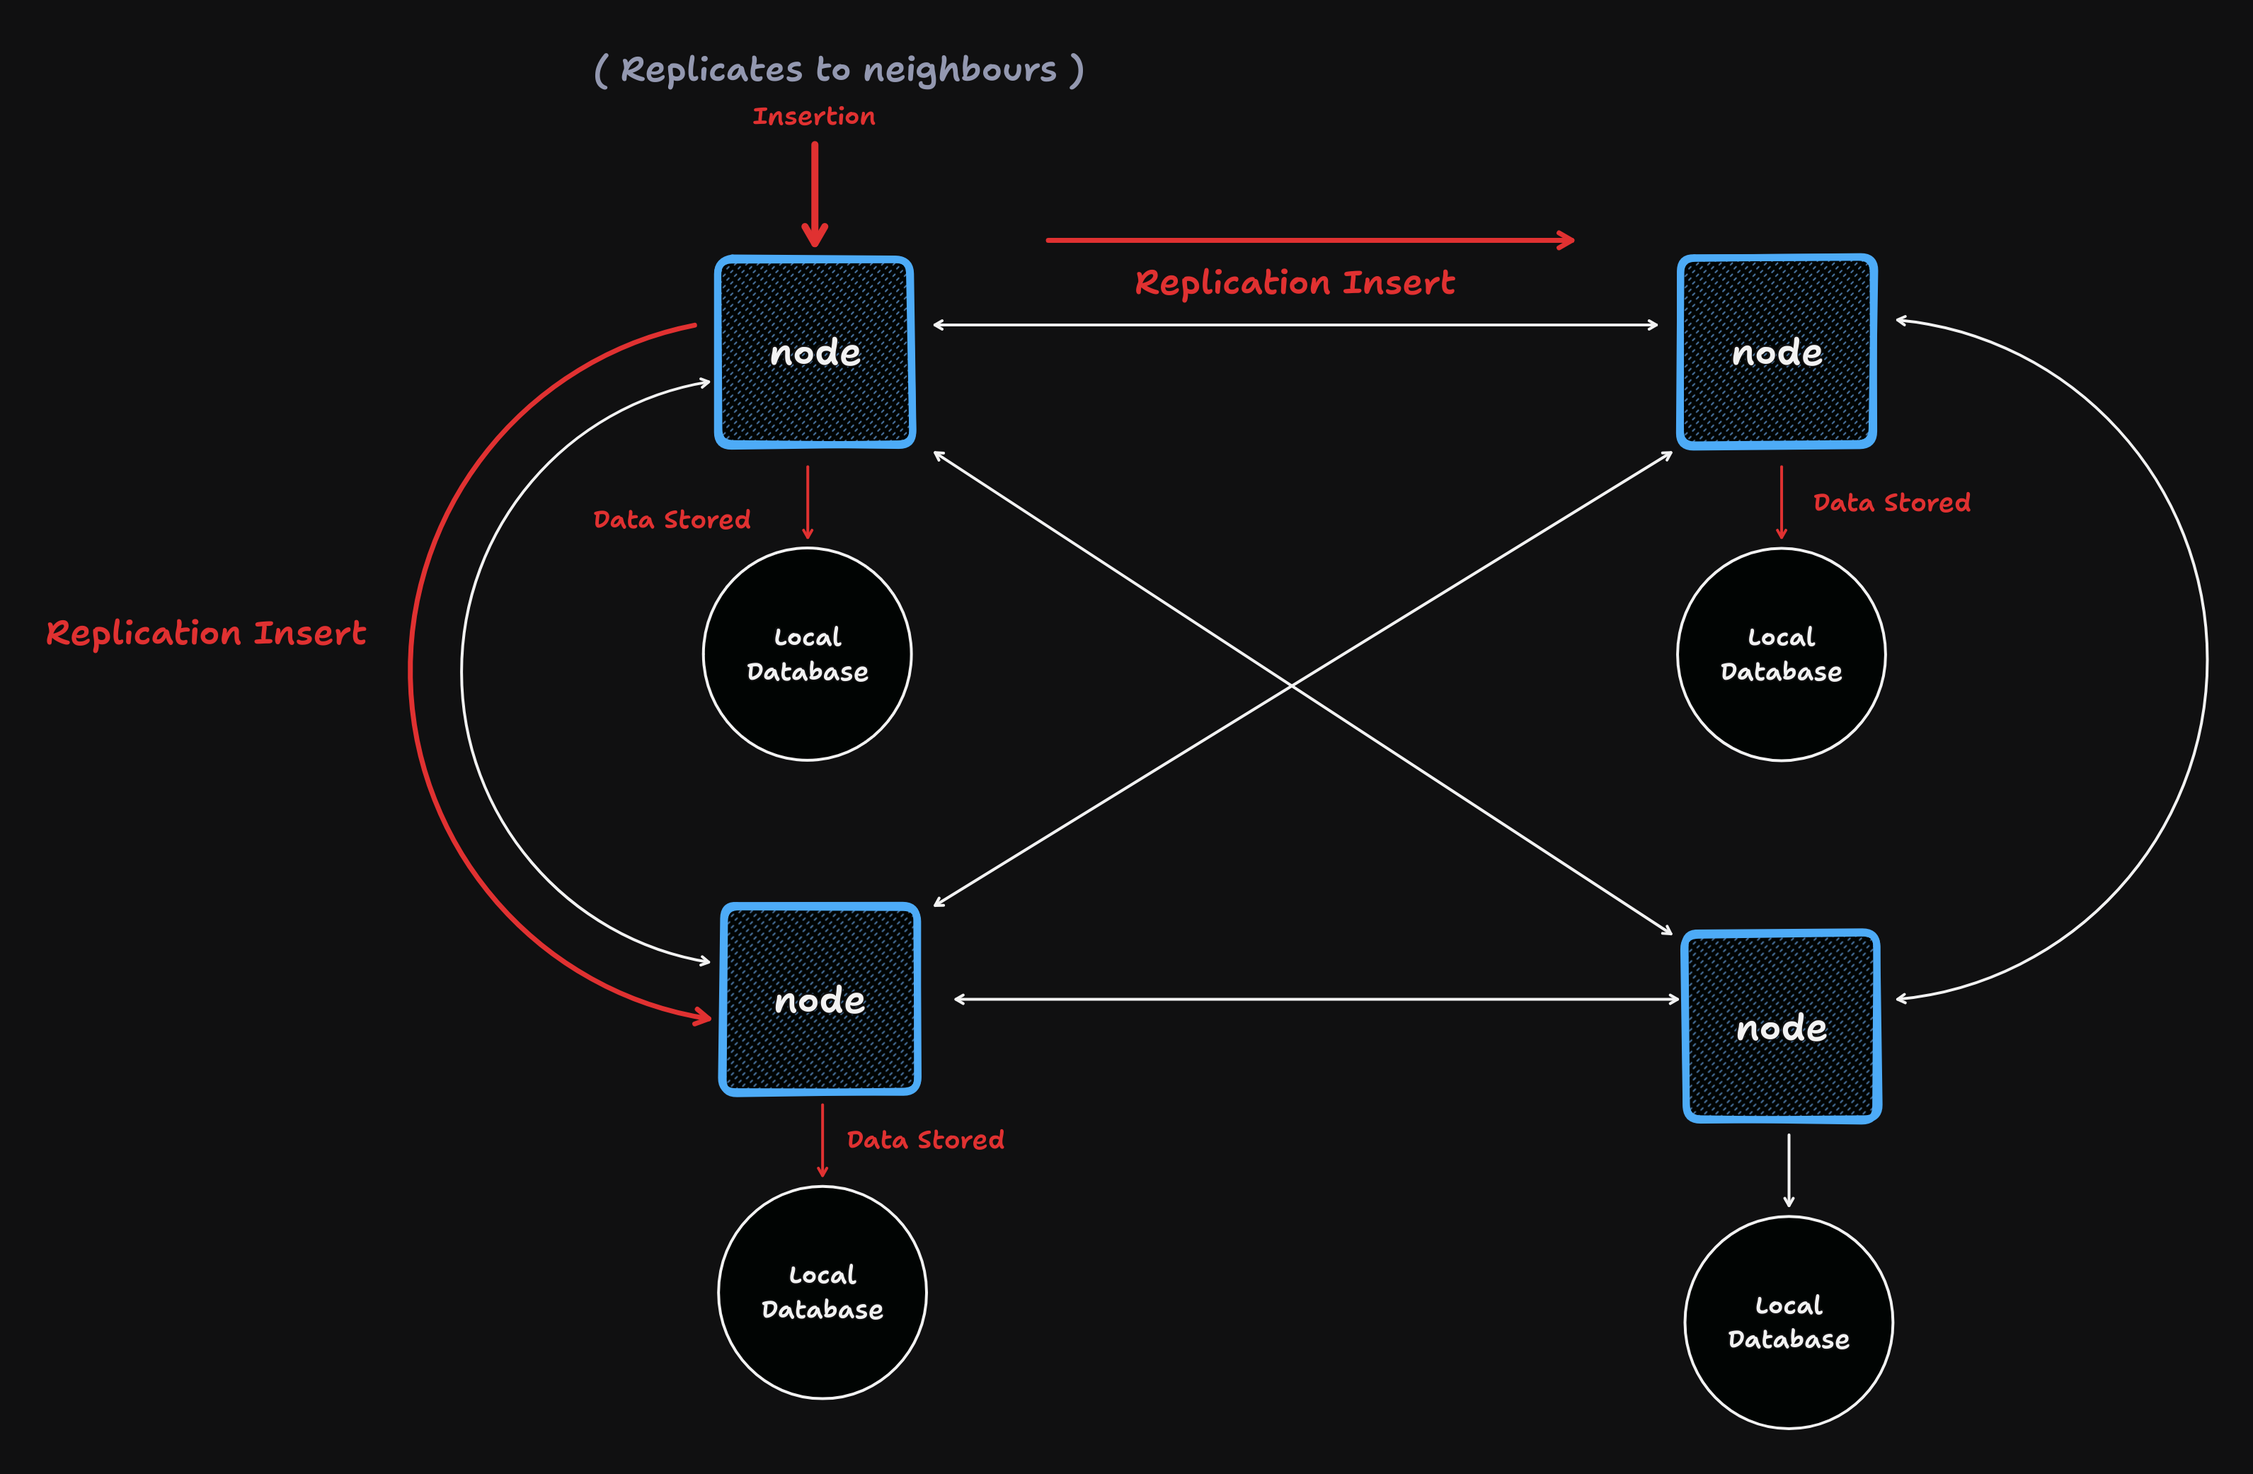
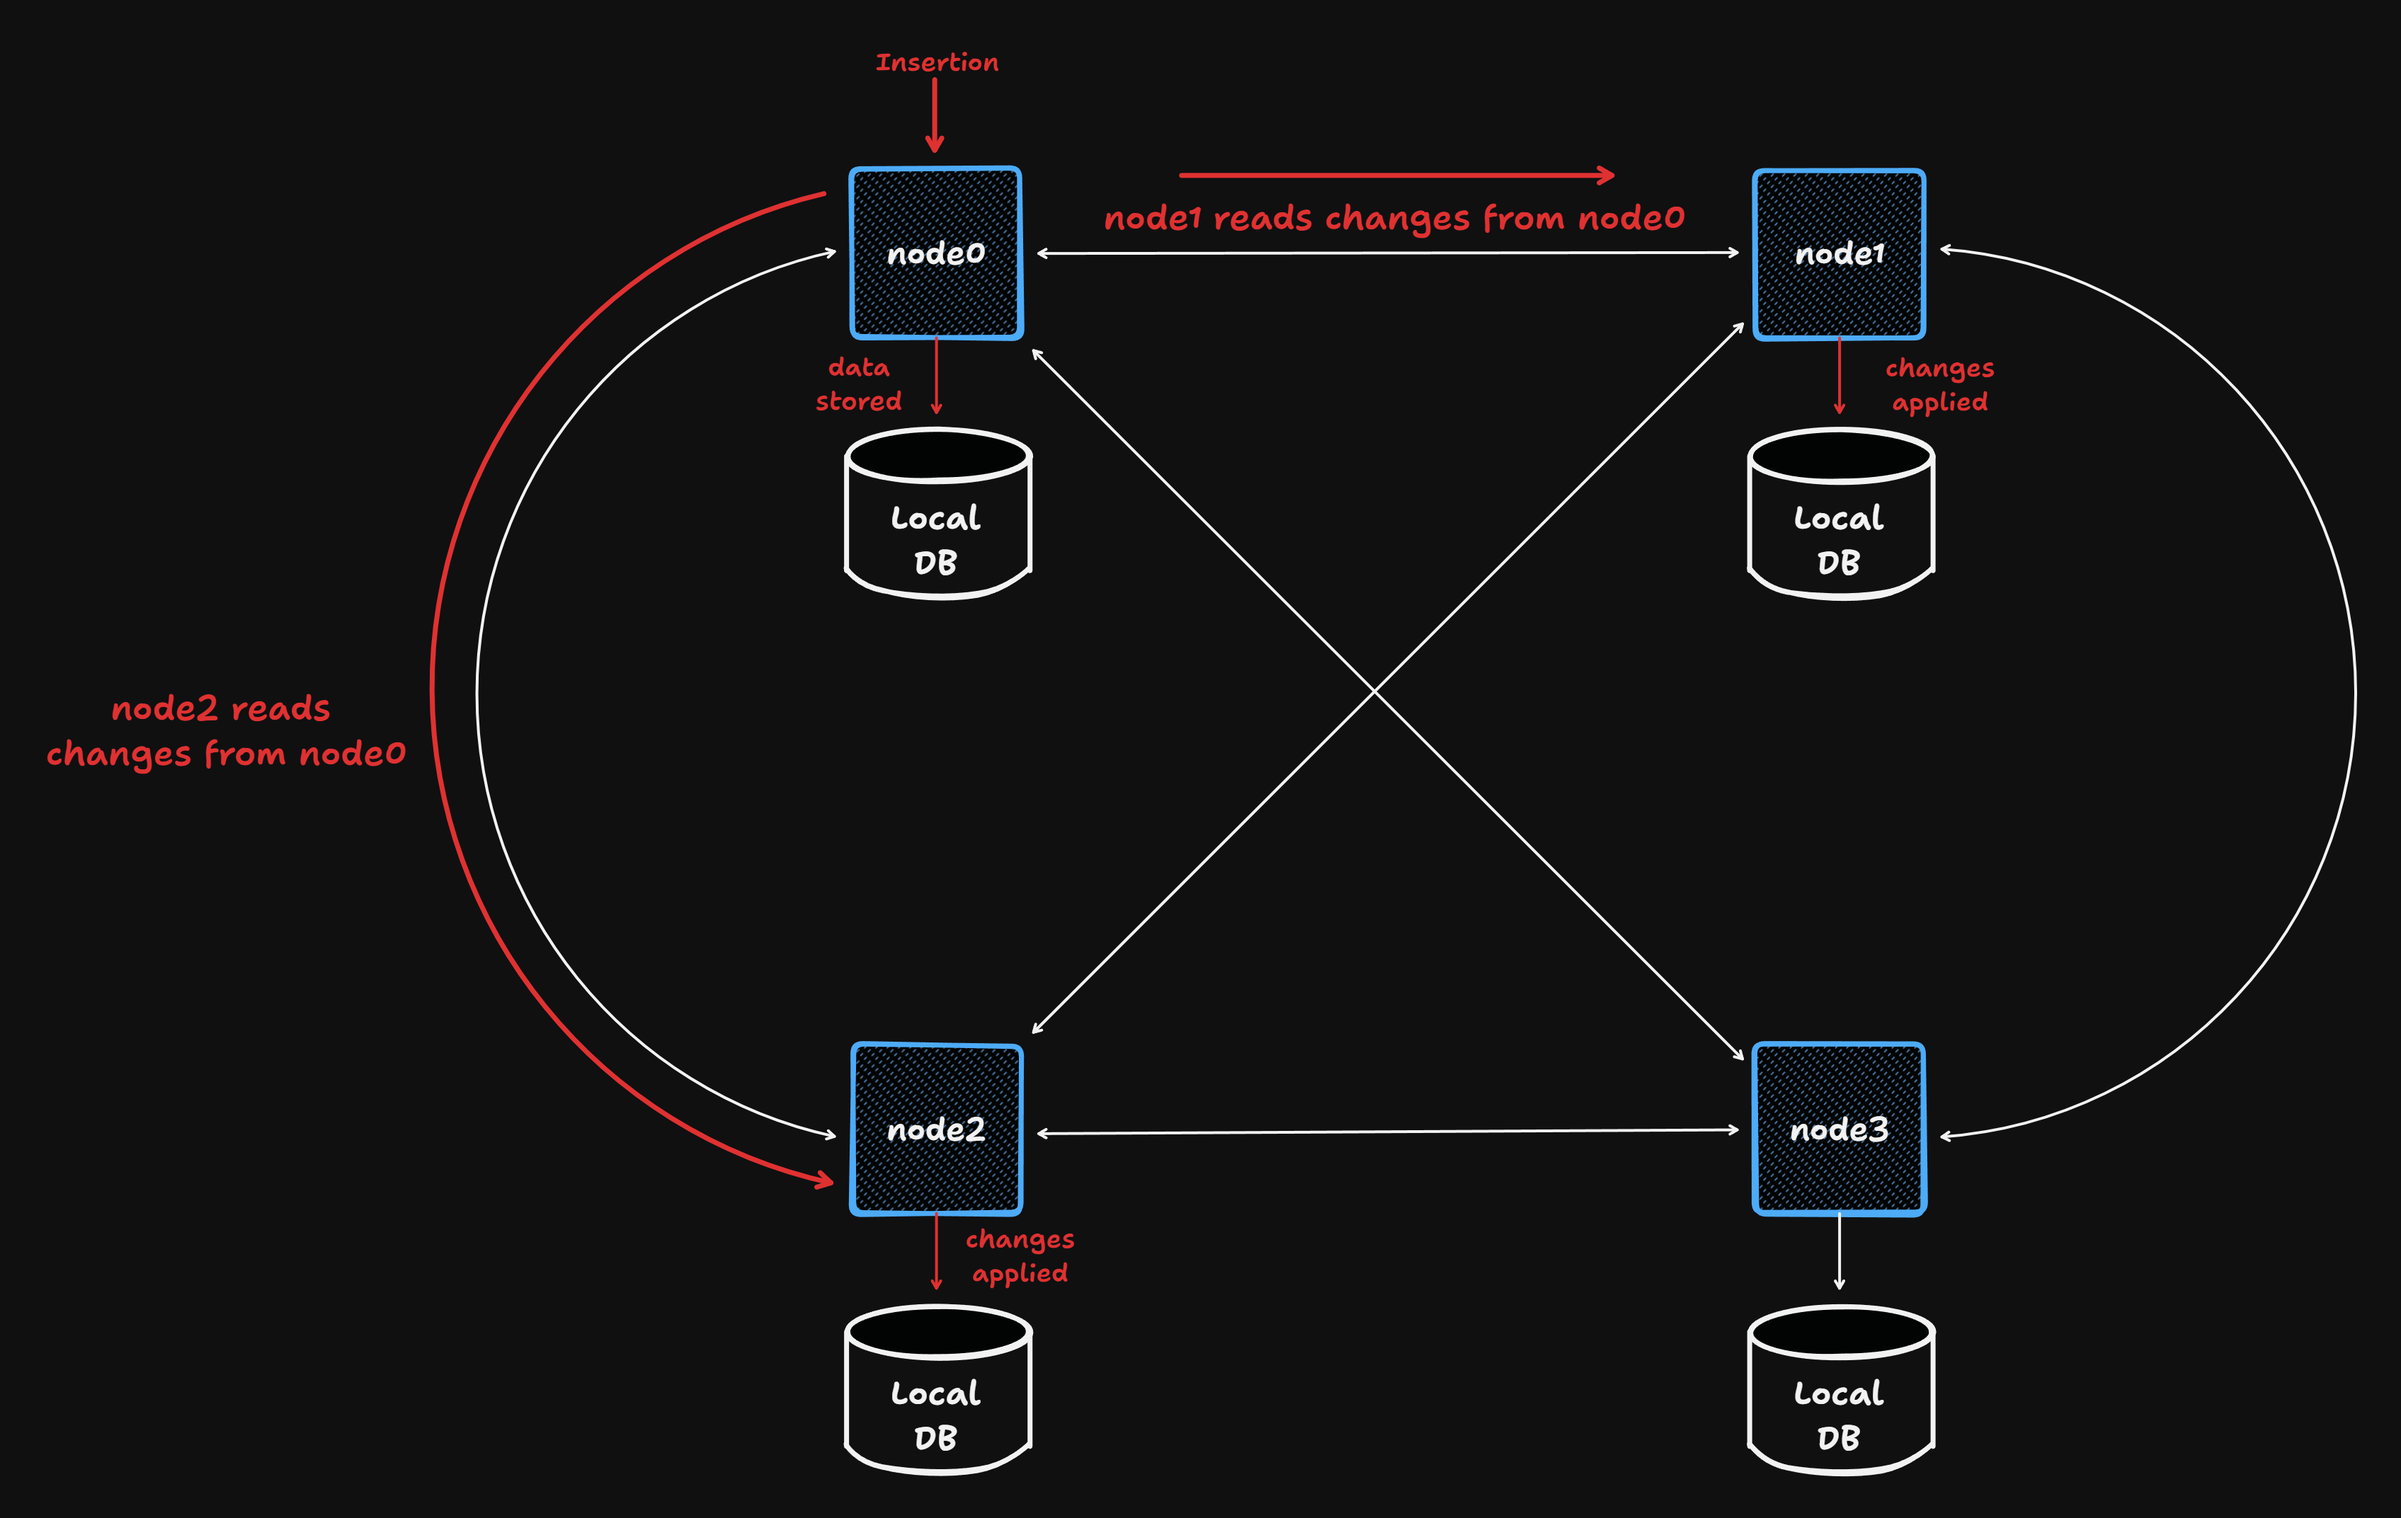
chore: update scoring and endpoint docs

diff --git a/docs/overview.md b/docs/overview.md
@@ -6,63 +6,68 @@ The subnet can be used as shown below:
 
 ![overview](../assets/overview.png)
 
-Uploading files
+### Uploading files
 
-- Client hits a validator endpoint to upload a file. This can be done by sending a file to its http endpoint:
+Before performing in write operations, a user must first generate and sign a nonce with a sr25519 keypair and supply it in the relevant endpoints. 
+In the future a client cli tool and/or SDK will be created to make this process much more seamless and automatic.
+
+#### Generate nonce
+
+- Generate a nonce for your account id (formatted as an ss58 address). For example:
+    ```bash
+    curl -X GET http://{ip}:{port}/nonce?account_id=5HeHkTeToUHmoZisZcoQDF1aJFR1Q8bZJY18FVqTV6fr8kvA" -H "X-API-Key: API_KEY"
+    ```
+- This will then return a nonce. For example:
+```
[1 lines of base64/hex data omitted]
+```
+- Using the polkadot js frontend to sign this would output:
+```
[1 lines of base64/hex data omitted]
+```
+
+- Which without the hex prefix "0x" would be:
+```
[1 lines of base64/hex data omitted]
+```
+
+#### Uploading file
+
+- Client hits a validator endpoint to upload a file. This can be done by sending a file to its http endpoint, and supplying it with the signature we previously obtained:
 
     ```bash
-    curl -X POST http://{ip}:{port}/file -F "file=@{path/to/file}"
+    curl -X POST http://{ip}:{port}/file?account_id=5HeHkTeToUHmoZisZcoQDF1aJFR1Q8bZJY18FVqTV6fr8kvA?signature=e23e5bc68d39a6130d1d224d08472e687d6227ce5030fc53887829f5d278e2500dc7a81ba84bad424e42648ed76c640835e614225b39a5fe6fd57f266896ac82 -F "file=@{path/to/file}" -H "X-API-Key: API_KEY"
     ```
 
 - The validator splits up the file into erasure-coded pieces that are then distributed to miners.
-- The validator distributes the file metadata to other neurons through a DHT.
 - Returns an infohash which can be used by user to download the file from the network:
 
     ```
[1 lines of base64/hex data omitted]
     ```
 
-Retrieving files
+### Retrieving files
 
 - Client requests for a file through a validator. Also done through its http endpoint:
 
     ```bash
-    curl -X GET http://{ip}:{port}/file?infohash={infohash}
+    curl -X GET http://{ip}:{port}/file?infohash={infohash} -H "X-API-Key: API_KEY"
     ```
 
-- The validator uses the DHT to determine where the file pieces are stored then requests the pieces from the miners.
+- The validator uses its metadata db to determine where the file pieces are stored then requests the pieces from the miners.
 - The validator reconstructs the file with the pieces and sends it back to the client.
+
+### Deleting files
+
+- Client requests to delete a file through a validator:
+    ```bash
+    curl -X DELETE http://{ip}:{port}/file?infohash={infohash}?account_id={account_id}?signature={signature} -H "X-API-Key: API_KEY"
+    ```
+- The validator deletes the file pieces from the miners and removes the metadata from its database.
 
 ## Scoring Mechanism
 
-![scoring](../assets/weight-scoring.png)
-
-Scoring is made up of multiple components:
-
-- **Latency**: Miners are scored based on how quickly they respond to storage and retrieval requests.
-- **Response Rate**: Reliable miners are the name of the game. The less a miner responds with valid data to storage and retrieval requests, the lower it is scored.
-- **Data validation**: There's no point in having a miner with low latency and high response rates if the data they return is invalid. To ensure that miners are consistently returning the correct data, the integrity of the data they return is also taken into account.
-
-### Window-Based Scoring
-
-The scoring system uses a sliding window approach to ensure scores remain current and representative:
-
-- **Stats Reset**: After every 2,500 requests to a miner, their statistics (storage successes, storage attempts, retrieval successes, retrieval attempts) are reset
-- **Score History**: Before resetting stats, the current score is stored as a "previous score" to maintain historical performance context
-- **Score Calculation**: 
-  - For miners with fewer than 50 requests in the current window, their previous score is used
-  - For miners with sufficient requests, the score is calculated as:
-    - 70% weight on current window performance
-    - 30% weight on previous historical score
-  - The final score combines:
-    - 75% weight on response rates (storage/retrieval success)
-    - 25% weight on latency performance
-
-This window-based approach ensures that:
-- Scores reflect recent performance more heavily than historical data
-- Miners can't coast on past performance indefinitely
-- New or recently reset miners have a grace period using their previous score
-- Performance is evaluated over a meaningful sample size of requests
+Our scoring mechanism uses a Bayesian approach to score the reliability of miners. For a succint overview of our scoring system please read our [litepaper](https://github.com/storb-tech/storb-research/blob/main/papers/Bayesian%20Scoring%20Litepaper.pdf)
 
 ## Chunking and Piecing
 
@@ -70,8 +75,8 @@ Files are split into erasure-coded chunks, and subsequently split into pieces an
 
 ![chunk](../assets/chunk.png)
 
-## DHT for File Metadata
+## Sqlite + cr-sqlite for File Metadata and Syncing
 
-File metadata — which is useful for querying miners for pieces, and, eventually, reconstructing files — is replicated and stored across neurons in the subnet in the form of a DHT.
+File metadata — which is useful for querying miners for pieces, and, eventually, reconstructing files — is stored across validators in the subnet in the form of sqlite databases, all of which are synced with the help of [cr-sqlite](https://github.com/vlcn-io/cr-sqlite)
 
 ![metadata](../assets/metadata.png)
